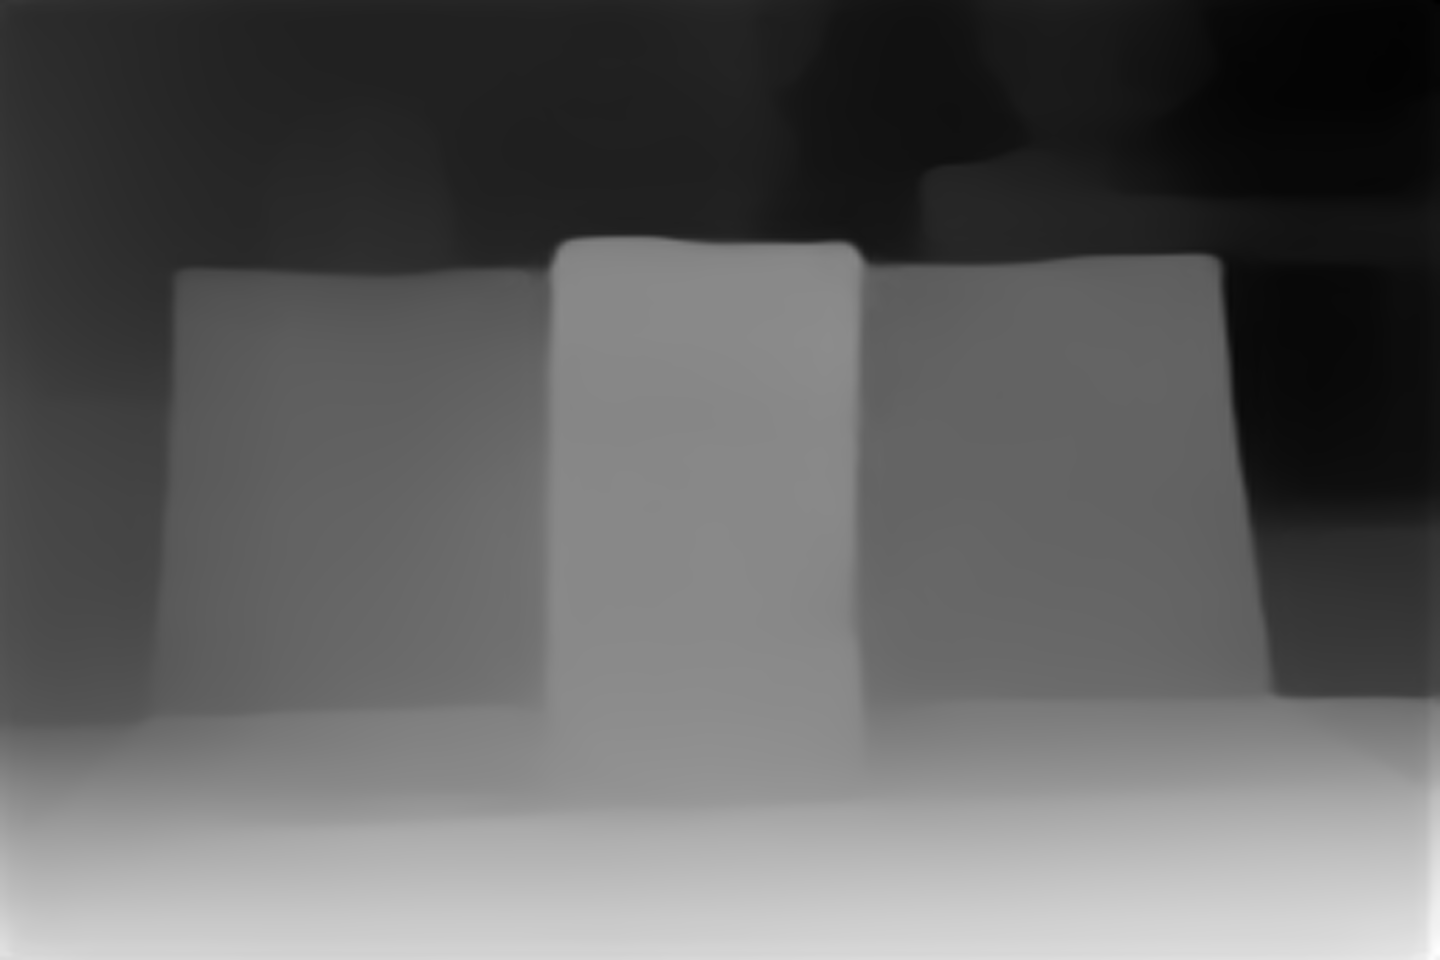
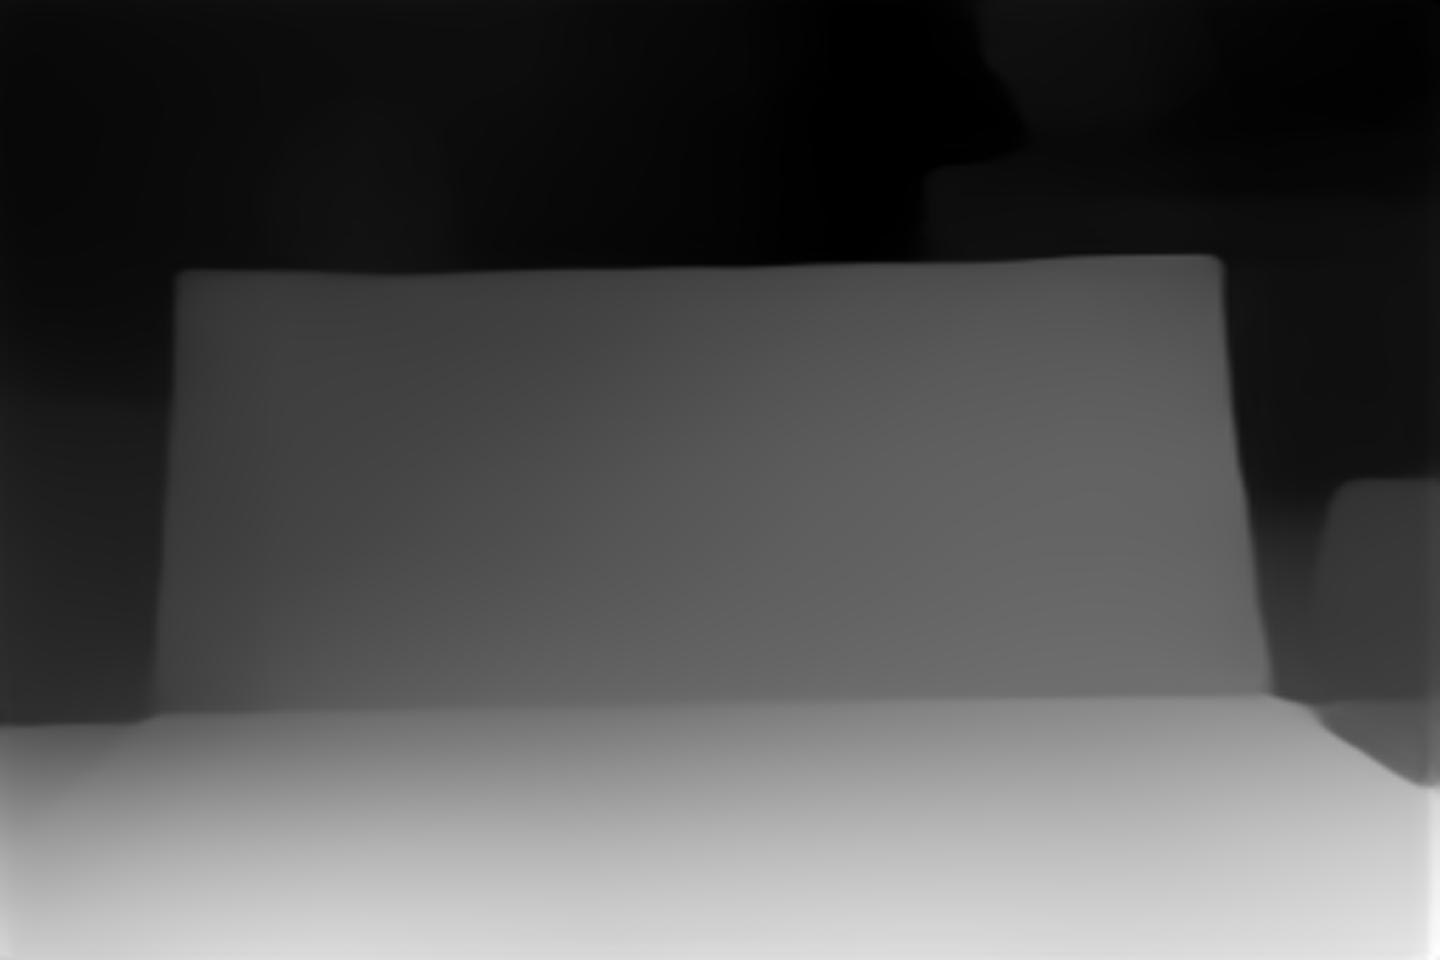
Success!!!!

diff --git a/model_example_lite.py b/model_example_lite.py
@@ -9,7 +9,7 @@ urllib.request.urlretrieve(url, filename)
 
 
 # input
-img = cv2.imread('/Users/philliao/Documents/Honeydew_Picker/Assets/test_img_3.jpeg')
+img = cv2.imread('/Users/philliao/Documents/Honeydew_Picker/Assets/test_img_25.jpeg')
 img = cv2.cvtColor(img, cv2.COLOR_BGR2RGB) / 255.0
 
 img_resized = tf.image.resize(img, [256,256], method='bicubic', preserve_aspect_ratio=False)
